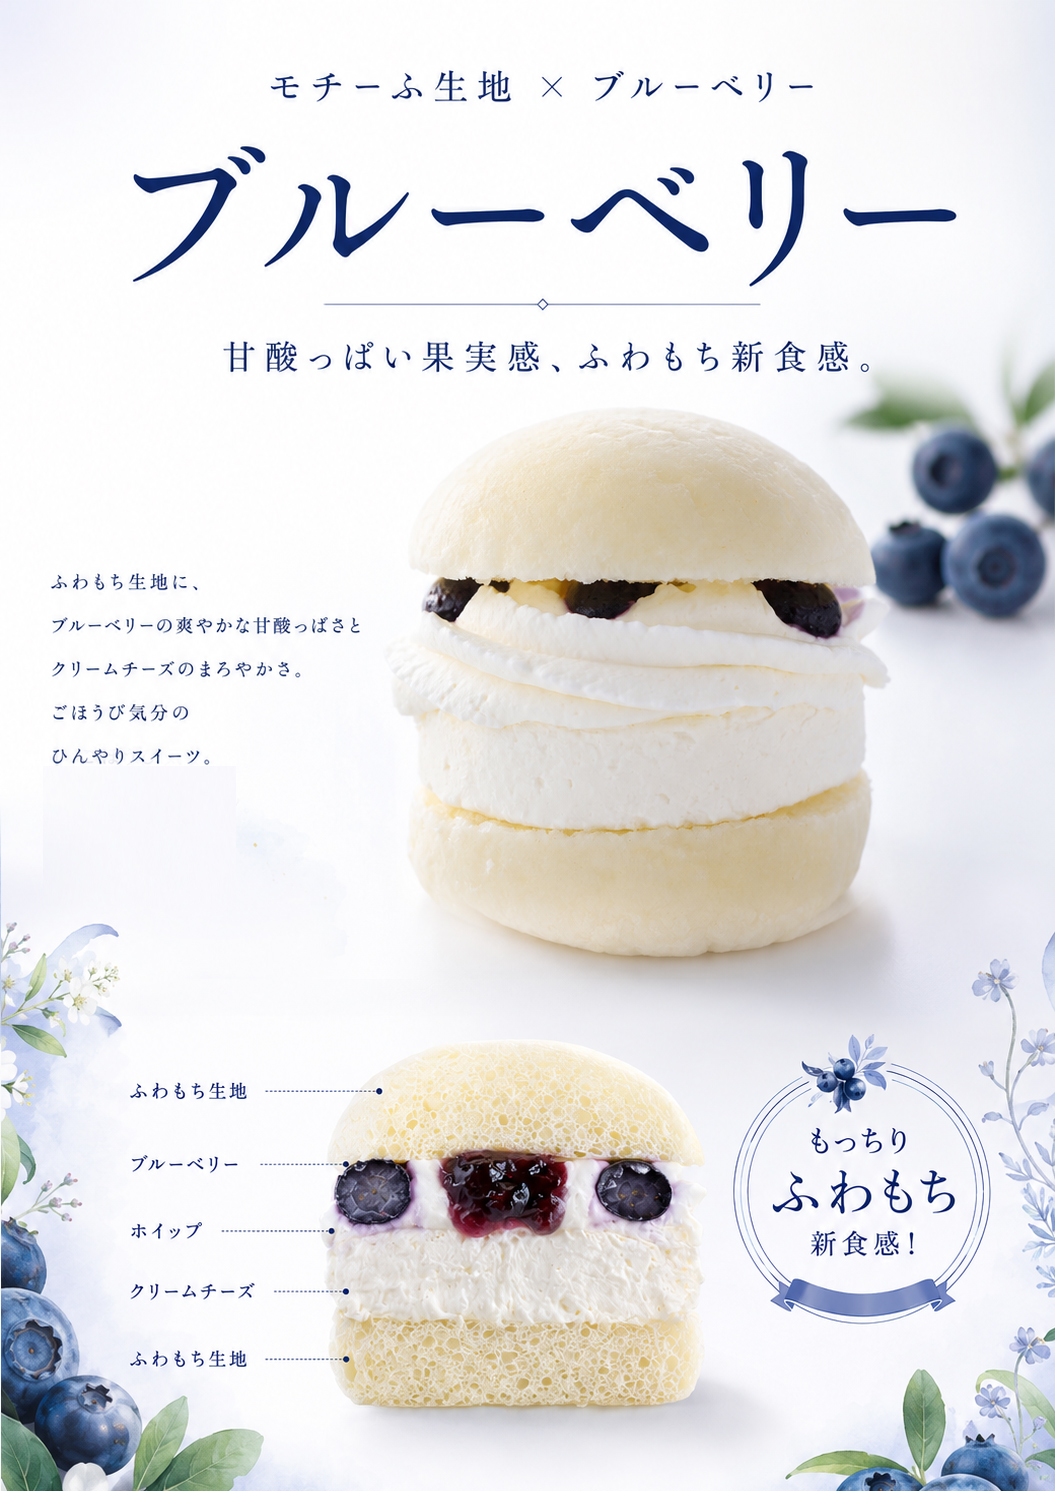
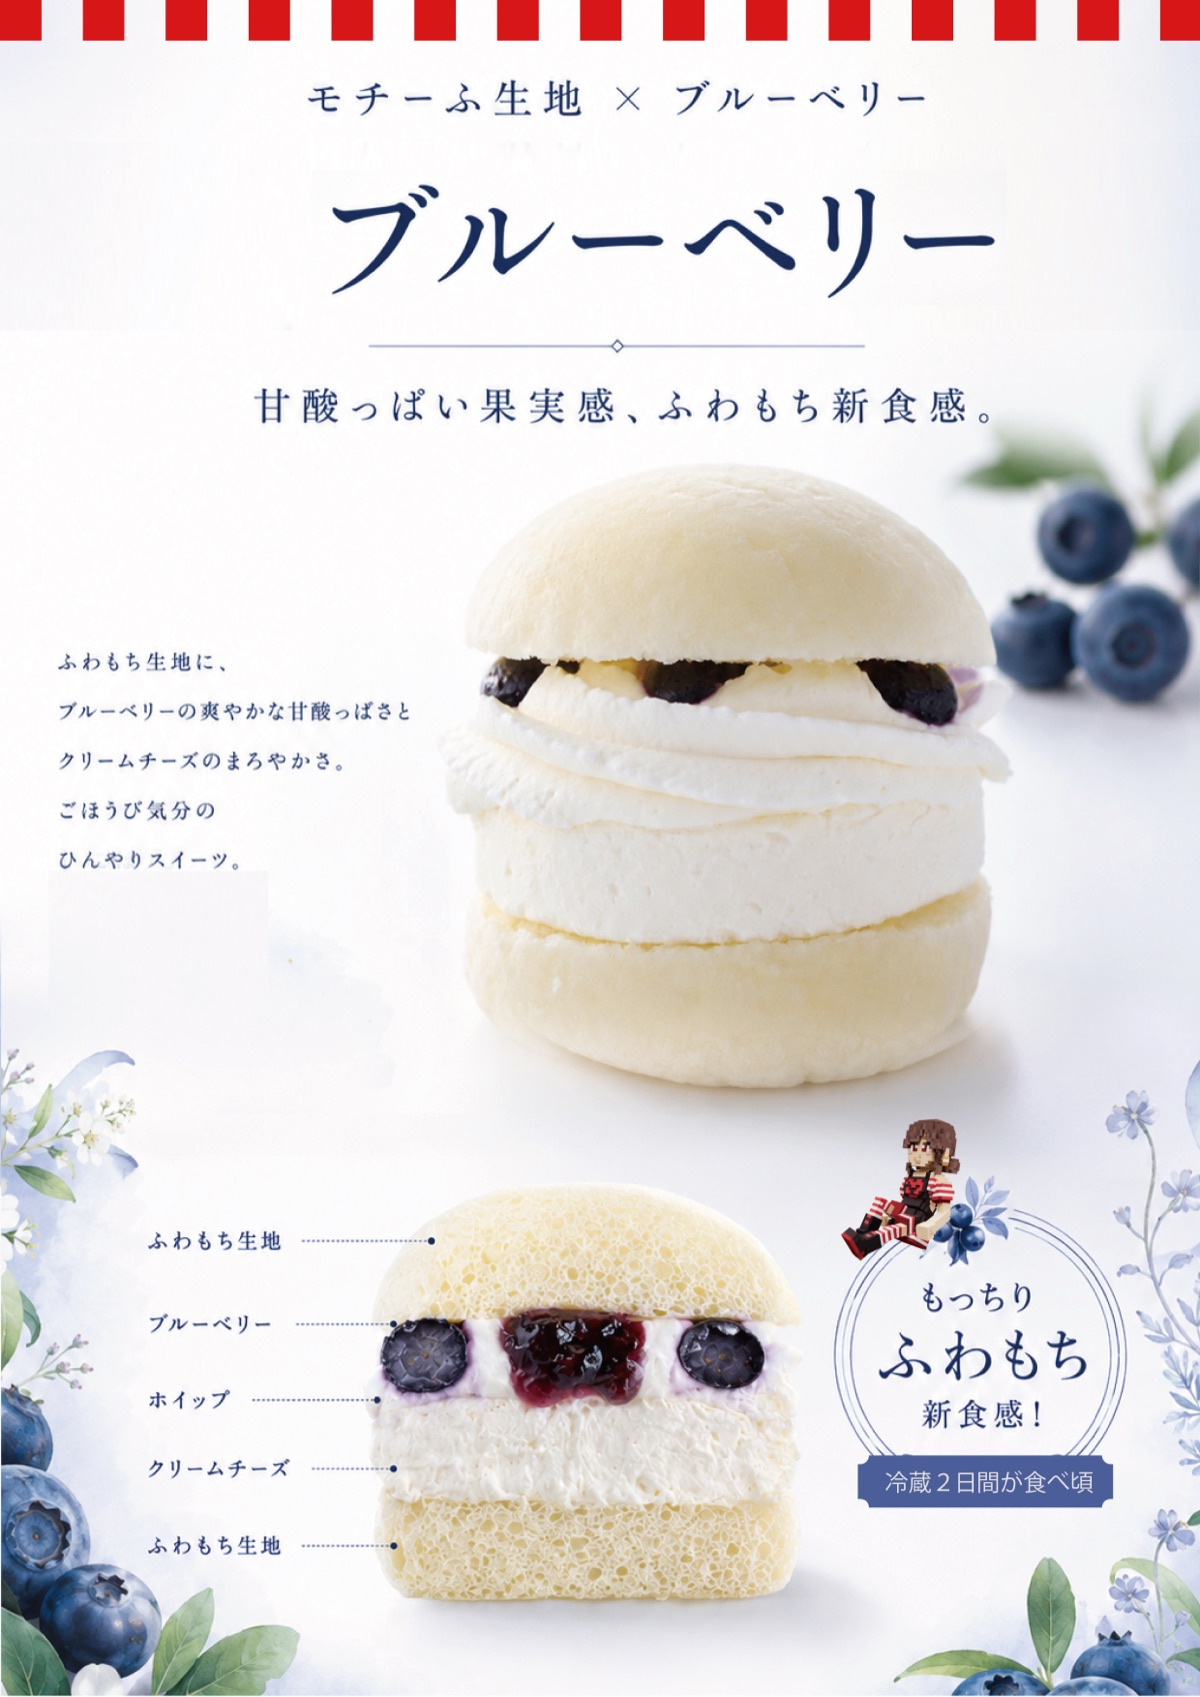
Update ふわもち#クリチ blog: refresh images and hero (png→jpg)

diff --git a/blog/fuwamochi-kurichi.html b/blog/fuwamochi-kurichi.html
@@ -89,9 +89,19 @@
     font-size:clamp(26px,4vw,42px);line-height:1.4;margin:0 0 24px;color:var(--char)}
   .fk-exp-p{max-width:560px;margin:0 auto;color:#5a4d45;
     font-size:clamp(14px,1.8vw,17px);line-height:2.1}
-  .fk-exp-tag{margin:40px auto 0;max-width:680px;font-family:"Noto Sans JP",sans-serif;
+  .fk-exp-tag{margin:44px auto 0;max-width:680px;font-family:"Noto Sans JP",sans-serif;
     font-weight:700;font-size:clamp(17px,2.6vw,24px);line-height:1.85;
     color:var(--cheese-deep);letter-spacing:.03em}
+  /* 食べ頃バッジ */
+  .fk-exp-badge{display:inline-flex;align-items:center;gap:12px;margin:6px auto 0;
+    padding:16px 40px;border-radius:999px;background:var(--tomato);color:#fff;
+    font-family:"Noto Sans JP",sans-serif;font-weight:900;
+    font-size:clamp(20px,3.2vw,30px);letter-spacing:.06em;
+    box-shadow:0 20px 38px -14px rgba(230,57,70,.55)}
+  .fk-exp-badge .snow{font-size:.92em;line-height:1}
+  .fk-exp-note{max-width:560px;margin:24px auto 0;color:#5a4d45;font-weight:500;
+    font-size:clamp(13.5px,1.8vw,16px);line-height:2.05}
+  .fk-exp-note b{color:var(--tomato);font-weight:800}
 
   /* CTA */
   .fk-cta{padding:88px 20px;text-align:center;background:var(--char)}
@@ -116,6 +126,8 @@
     .fk-flavor{padding:64px 0}
     .fk-flavor-imgs{grid-template-columns:1fr;gap:18px;max-width:420px;padding:0 18px}
     .fk-keycopy{margin-top:36px}
+    .fk-exp{padding:72px 18px}
+    .fk-exp-badge{padding:13px 26px;gap:9px}
   }
 </style>
 </head>
@@ -149,7 +161,7 @@
   <!-- HERO -->
   <header class="fk-hero">
     <div class="fk-hero-img">
-      <img src="../assets/blog/fuwamochi-kurichi/hero.png" alt="ふわもち#クリチ いちご・ブルーベリー・抹茶あんこ 3種の新感覚スイーツ">
+      <img src="../assets/blog/fuwamochi-kurichi/hero.jpg" alt="ふわもち#クリチ いちご・ブルーベリー・抹茶あんこ 3種の新感覚スイーツ">
     </div>
     <div class="fk-hero-cap">
       <a href="../news/index.html" class="press-back">← News 一覧へ</a>
@@ -212,19 +224,21 @@
         <h2 class="fk-flavor-name">抹茶あんこ</h2>
         <p class="fk-flavor-catch">和のやさしさ、ふわもち新食感。</p>
       </div>
-      <p class="fk-flavor-copy">ふわもち食感の白バンズで、なめらかなクリームチーズのコクを閉じ込めた抹茶クリチdiscに、甘さ控えめで軽やかな口どけのホイップ。中心でほどけるあんこが全体をつなぎ、抹茶の香り、やさしい甘み、奥行きのある食感を重ねました。</p>
+      <p class="fk-flavor-copy">ふわもち食感の白バンズで、なめらかなクリームチーズのコクを閉じ込めた抹茶クリチdiscに、甘さ控えめで軽やかな口どけのホイップ。やさしいあんこと、とろりとほどける黒蜜が全体をつなぎ、抹茶のほろ苦い香り、やさしい甘み、奥行きのある食感を重ねました。</p>
       <div class="fk-flavor-imgs">
         <figure><img src="../assets/blog/fuwamochi-kurichi/matcha.jpg" alt="ふわもち#クリチ 抹茶あんこ メインビジュアル" loading="lazy"></figure>
-        <figure><img src="../assets/blog/fuwamochi-kurichi/matcha-cross.jpg" alt="ふわもち#クリチ 抹茶あんこ 断面と構成（ふわもち生地・あんこ・ホイップ・抹茶クリームチーズ）" loading="lazy"></figure>
+        <figure><img src="../assets/blog/fuwamochi-kurichi/matcha-cross.jpg" alt="ふわもち#クリチ 抹茶あんこ 断面と構成（ふわもち生地・あんこ・ホイップ・抹茶クリームチーズ・黒蜜）" loading="lazy"></figure>
       </div>
     </div>
   </section>
 
   <!-- EXPERIENCE -->
   <section class="fk-exp">
-    <h2 class="fk-exp-h">時間と温度が、完成させる。</h2>
-    <p class="fk-exp-p">テイクアウトして、お家に着くころ。<br>持ち帰る時間でゆっくりとほどけ、ひんやり・ふわり・もちりが、ちょうど食べ頃に整います。</p>
-    <p class="fk-exp-tag">お家に着くころ、ちょうど食べ頃。<br>時間と温度が完成させる、新感覚・新食感 #クリチ。</p>
+    <h2 class="fk-exp-h">いちばんおいしいのは、<br>冷やして、とけてから。</h2>
+    <p class="fk-exp-p">買ってすぐより、ちょっと待つのがおすすめ。<br>冷蔵庫でゆっくり冷やすほどクリームチーズとホイップがほどけ、<br>ふわり・もちりの口どけが、いちばん引き立ちます。</p>
+    <div class="fk-exp-badge"><span class="snow">❄</span>冷蔵2日間が、食べ頃。</div>
+    <p class="fk-exp-note">目安は<b>冷蔵で2日間</b>。とけて馴染んだころが、ふわもち#クリチのいちばんのおいしさです。<br>キンと冷やして、とろける口どけをお楽しみください。</p>
+    <p class="fk-exp-tag">時間と温度が完成させる、<br>新感覚・新食感 #クリチ。</p>
   </section>
 
   <!-- CTA -->
